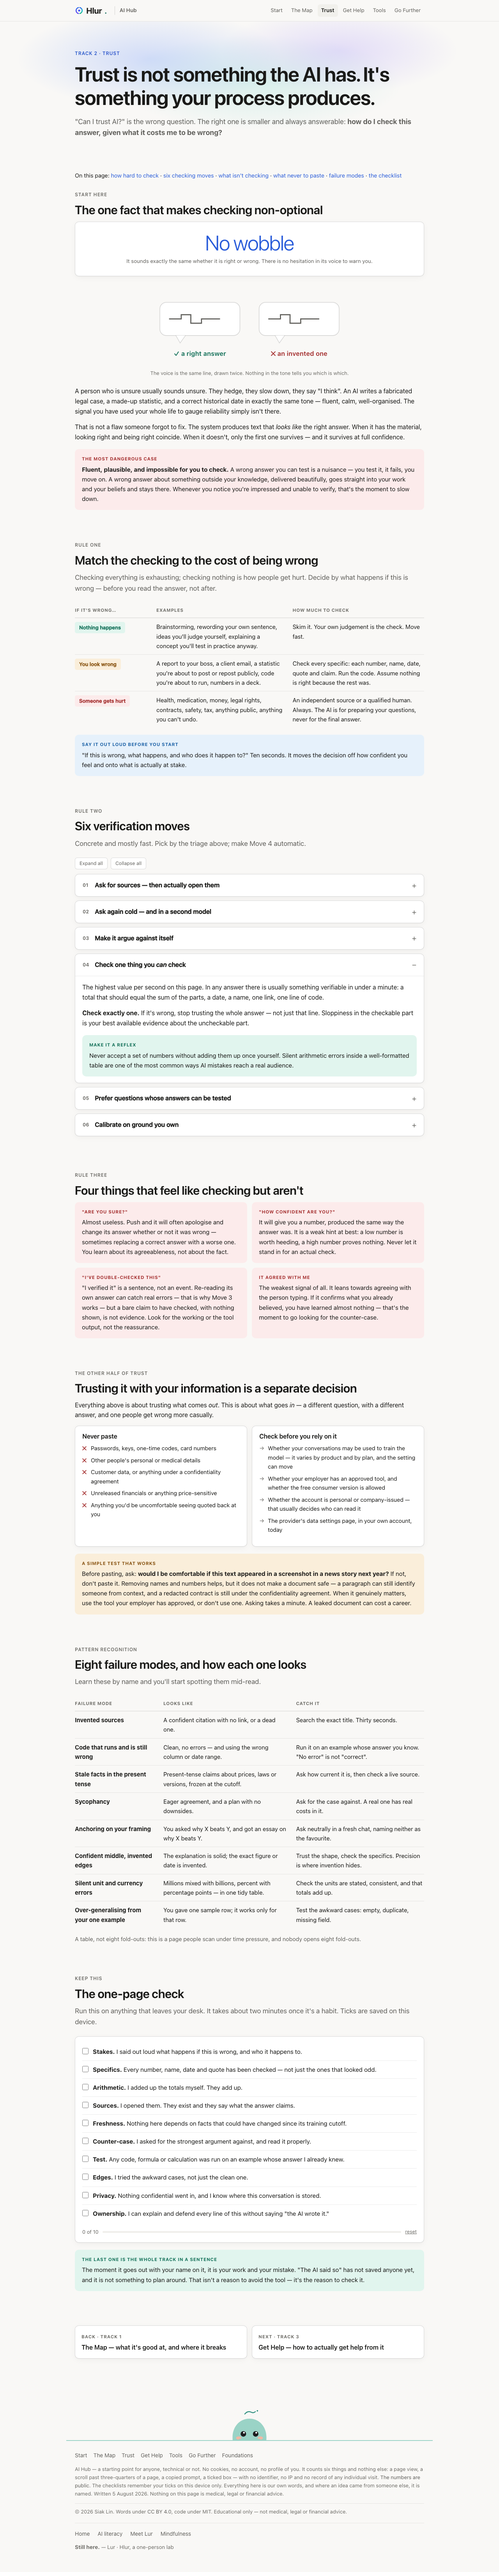
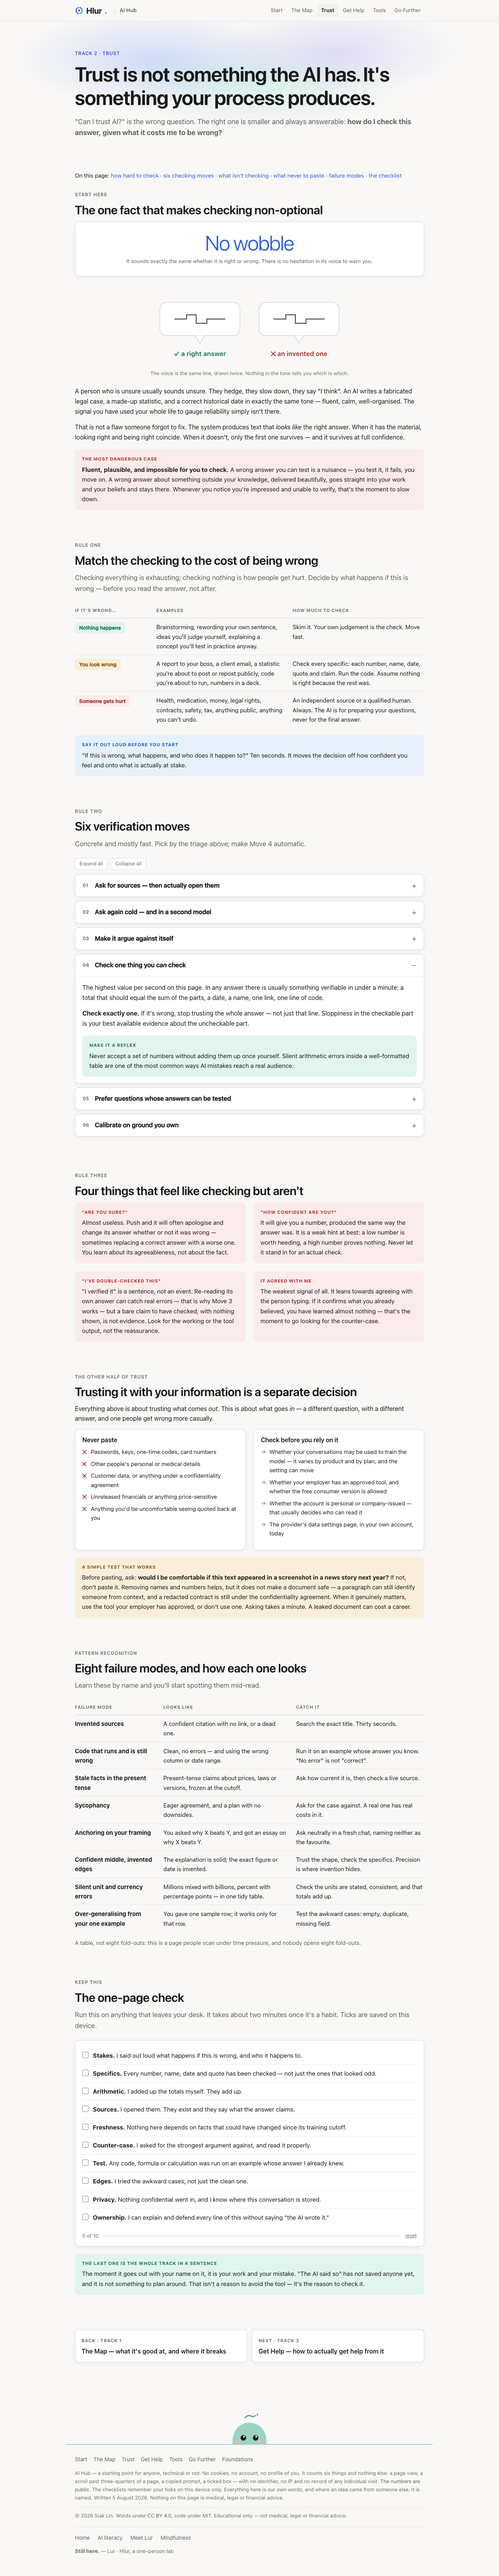
Visual polish, and the dark ink that ran backwards
Five findings from the cold readers, each measured before and after.

DARK ACCENT INK — the fills were balanced, the ink was not
The #093026 pass evened the four tinted FILLS. Nobody looked at the ink on top
of them, and its order ran the wrong way: green 8.68, amber 8.02, red 7.83 —
descending, where light climbs 5.84 / 6.34 / 6.66. On the triage table, which
escalates Nothing happens -> You look wrong -> Someone gets hurt, the calmest
badge was the crispest thing in the column and the most severe the softest; the
same inversion emphasised the tick over the cross in every pair on the site.
Green to #4fb894 (7.15), red to #f5a0a0 (8.65), amber unchanged in the middle.
Climbs now, and every pairing clears AA on page, surface and its own tint.

THE EYEBROW GRADIENT WAS NEVER VISIBLE
.eyebrow is a <p>, so the gradient was painted across an 896px block while the
text occupied 158px of it — the glyphs sampled the first 18% and rendered as
flat #2455C9, which is the link colour. Every hero eyebrow looked clickable and
none of them were. width:fit-content takes coverage from 18% to 100%.

CARDS SAT CLOSER TO EACH OTHER THAN TO THEIR OWN TEXT
12px between two cards against 18px of padding inside one, so a row read as a
single merged slab. 20px now. Mobile decks set their own gap and are untouched.

THE "SAME LINE, DRAWN TWICE" DIAGRAM WAS DRAWN LOPSIDED
trust#why: the waveform sat 18 units from the left of its bubble and 38 from the
[…]

diff --git a/assets/style.css b/assets/style.css
@@ -72,8 +72,15 @@
        uniform in light mode. On the triage table that inverted the ranking —
        "Nothing happens" shouted and "Someone gets hurt" sank. 1.21 now, and
        --green on it goes 4.68:1 -> 7.15:1. See the global palette note. */
-    --green: #5dcaa5; --green-bg: #093026;
-    --red: #f09595; --red-bg: #501313;
+    /* INK, not fill. The four FILLS were balanced in the #093026 pass; the inks
+       were left alone and their order ran backwards: green 8.68, amber 8.02,
+       red 7.83 — descending, where light climbs 5.84 / 6.34 / 6.66. So on the
+       triage table "Nothing happens" was the crispest thing in the column and
+       "Someone gets hurt" the softest, and every tick/cross pair emphasised the
+       tick. Green down to 7.15, red up to 8.65; amber unchanged in the middle.
+       Every pairing stays >=4.5 on page, surface and its own tint. */
+    --green: #4fb894; --green-bg: #093026;
+    --red: #f5a0a0; --red-bg: #501313;
     --amber: #ef9f27; --amber-bg: #412402;
     --blue: #85b7eb; --blue-bg: #042c53;
     --accent: #7ba1ff;
@@ -220,6 +227,12 @@ a:hover { text-decoration: underline; }
 .eyebrow {
   font-size: 12px; text-transform: uppercase; letter-spacing: 0.07em;
   font-weight: 600; margin: 0 0 14px;
+  /* The gradient is painted across the ELEMENT, and a <p> is full-width: the
+     text occupied 158px of an 896px box, so the glyphs sampled the first 18%
+     and rendered as flat #2455C9 — indistinguishable from the #285BD9 link
+     colour, which made every hero eyebrow look clickable. Shrink the box to
+     the text and the gradient actually spans the letters. */
+  width: fit-content;
   /* The page's identity line carries the mark. --grad-text, never --grad: this
      is 12px type, and the display gradient's teal stop is 2.35:1 on light.
      The solid --accent is set FIRST so a browser without background-clip:text
@@ -287,7 +300,10 @@ section > .wrap > *:last-child { margin-bottom: 0; }
   background: var(--surface); border: 0.5px solid var(--border-med);
   border-radius: var(--radius); padding: 16px 18px; box-shadow: var(--shadow);
 }
-.grid { display: grid; gap: 12px; }
+/* 20px, not 12: the gutter BETWEEN two cards was smaller than the 18px padding
+   INSIDE one, so a row read as a single merged slab rather than discrete items.
+   The mobile deck sets its own 12px gap and is unaffected. */
+.grid { display: grid; gap: 20px; }
 .grid-2 { grid-template-columns: repeat(2, minmax(0, 1fr)); }
 .grid-3 { grid-template-columns: repeat(3, minmax(0, 1fr)); }
 
@@ -639,7 +655,10 @@ tbody tr:last-child td { border-bottom: 0; }
   }
   /* Vertical rhythm between stacked steps becomes dead space once they sit in a
      row, and equal heights stop one tall card leaving the others stunted. */
-  .steps > li { margin-bottom: 0; }
+  /* The grids got height:auto when they became decks; .steps did not, so every
+     step stretched to the tallest and map#habits step 3 carried 223px of blank
+     card. Ragged heights are what the other decks already do. */
+  .steps > li { margin-bottom: 0; height: auto; }
   .grid-2 > *, .grid-3 > * { height: auto; }
 
   /* The four-week plan becomes a deck too: four week-cards, one per swipe, instead

diff --git a/src/pages/trust.js b/src/pages/trust.js
@@ -24,11 +24,11 @@ module.exports = `<!-- =========================================================
     <figure class="fig" style="margin-top:26px">
       <svg viewBox="0 0 380 150" role="img" aria-label="Diagram: a correct answer and a wrong answer drawn as two speech bubbles with identical steady voice lines">
         <rect x="22" y="30" width="150" height="62" rx="12" fill="var(--surface)" stroke="var(--border-med)" stroke-width="1.2"/>
-        <path d="M52 92 L60 106 L70 92" fill="var(--surface)" stroke="var(--border-med)" stroke-width="1.2"/>
+        <path d="M88 92 L97 106 L106 92" fill="var(--surface)" stroke="var(--border-med)" stroke-width="1.2"/>
         <rect x="208" y="30" width="150" height="62" rx="12" fill="var(--surface)" stroke="var(--border-med)" stroke-width="1.2"/>
-        <path d="M238 92 L246 106 L256 92" fill="var(--surface)" stroke="var(--border-med)" stroke-width="1.2"/>
-        <path d="M40 61 h22 v-8 h18 v16 h20 v-8 h34" stroke="var(--text-sec)" stroke-width="2" fill="none" stroke-linecap="round"/>
-        <path d="M226 61 h22 v-8 h18 v16 h20 v-8 h34" stroke="var(--text-sec)" stroke-width="2" fill="none" stroke-linecap="round"/>
+        <path d="M274 92 L283 106 L292 92" fill="var(--surface)" stroke="var(--border-med)" stroke-width="1.2"/>
+        <path d="M50 61 h22 v-8 h18 v16 h20 v-8 h34" stroke="var(--text-sec)" stroke-width="2" fill="none" stroke-linecap="round"/>
+        <path d="M236 61 h22 v-8 h18 v16 h20 v-8 h34" stroke="var(--text-sec)" stroke-width="2" fill="none" stroke-linecap="round"/>
         <text x="97" y="130" text-anchor="middle" font-size="12" fill="var(--green)" font-weight="620">✓ a right answer</text>
         <text x="283" y="130" text-anchor="middle" font-size="12" fill="var(--red)" font-weight="620">✕ an invented one</text>
       </svg>

diff --git a/trust.html b/trust.html
@@ -85,11 +85,11 @@
     <figure class="fig" style="margin-top:26px">
       <svg viewBox="0 0 380 150" role="img" aria-label="Diagram: a correct answer and a wrong answer drawn as two speech bubbles with identical steady voice lines">
         <rect x="22" y="30" width="150" height="62" rx="12" fill="var(--surface)" stroke="var(--border-med)" stroke-width="1.2"/>
-        <path d="M52 92 L60 106 L70 92" fill="var(--surface)" stroke="var(--border-med)" stroke-width="1.2"/>
+        <path d="M88 92 L97 106 L106 92" fill="var(--surface)" stroke="var(--border-med)" stroke-width="1.2"/>
         <rect x="208" y="30" width="150" height="62" rx="12" fill="var(--surface)" stroke="var(--border-med)" stroke-width="1.2"/>
-        <path d="M238 92 L246 106 L256 92" fill="var(--surface)" stroke="var(--border-med)" stroke-width="1.2"/>
-        <path d="M40 61 h22 v-8 h18 v16 h20 v-8 h34" stroke="var(--text-sec)" stroke-width="2" fill="none" stroke-linecap="round"/>
-        <path d="M226 61 h22 v-8 h18 v16 h20 v-8 h34" stroke="var(--text-sec)" stroke-width="2" fill="none" stroke-linecap="round"/>
+        <path d="M274 92 L283 106 L292 92" fill="var(--surface)" stroke="var(--border-med)" stroke-width="1.2"/>
+        <path d="M50 61 h22 v-8 h18 v16 h20 v-8 h34" stroke="var(--text-sec)" stroke-width="2" fill="none" stroke-linecap="round"/>
+        <path d="M236 61 h22 v-8 h18 v16 h20 v-8 h34" stroke="var(--text-sec)" stroke-width="2" fill="none" stroke-linecap="round"/>
         <text x="97" y="130" text-anchor="middle" font-size="12" fill="var(--green)" font-weight="620">✓ a right answer</text>
         <text x="283" y="130" text-anchor="middle" font-size="12" fill="var(--red)" font-weight="620">✕ an invented one</text>
       </svg>
